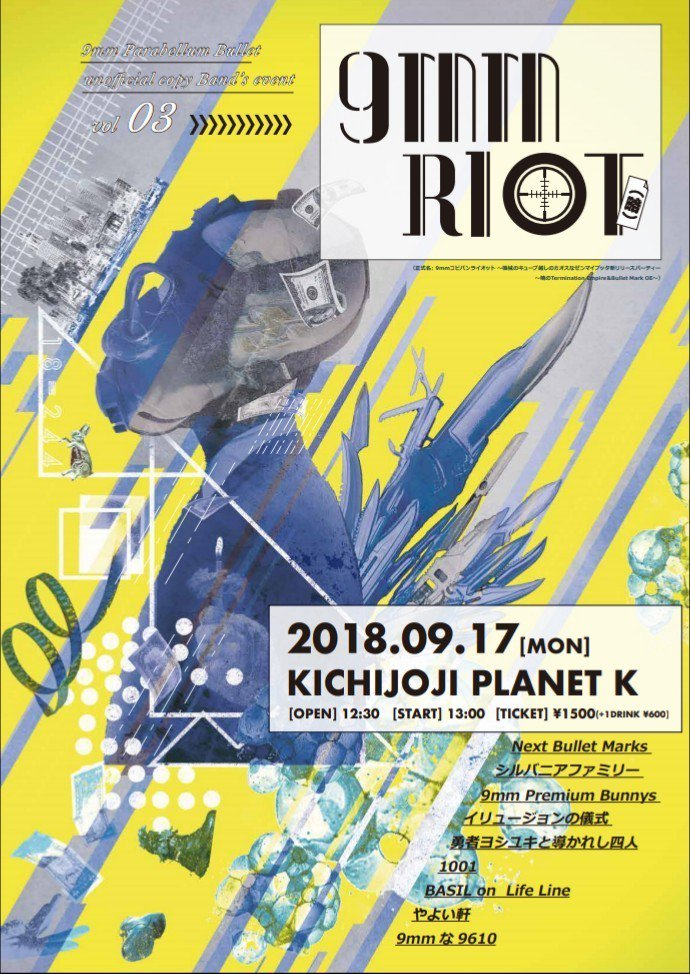
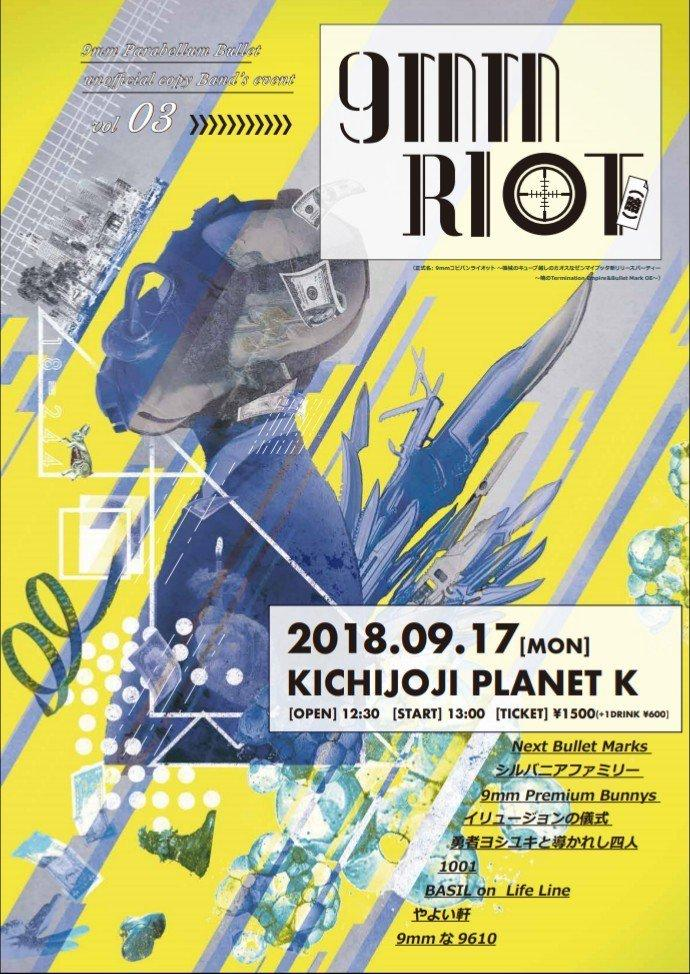
画像圧縮・ロゴ間隔修正
- 全画像を圧縮（合計6.5MB → 1.2MB）
- ヘッダー・フッターのロゴと文字の間隔をゼロに

diff --git a/CSS/style.css b/CSS/style.css
@@ -144,7 +144,7 @@ ul, ol {
 .site-logo {
   display: flex;
   align-items: center;
-  gap: 2px;
+  gap: 0;
   z-index: 1001;
 }
 
@@ -1107,7 +1107,7 @@ a.past-event-card {
   display: flex;
   align-items: center;
   justify-content: center;
-  gap: 2px;
+  gap: 0;
   margin-bottom: 8px;
 }
 
